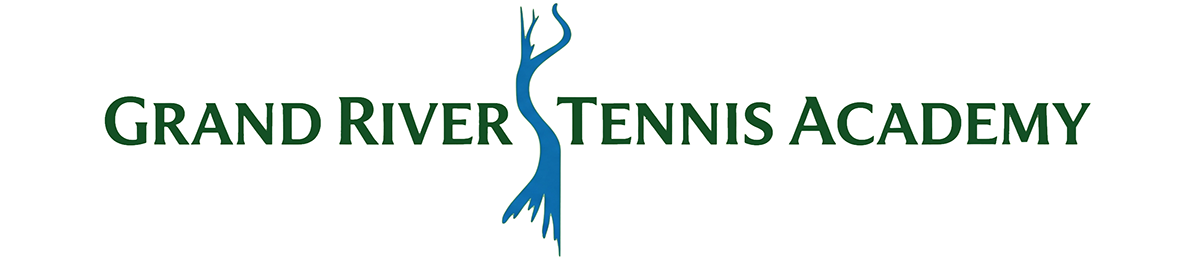
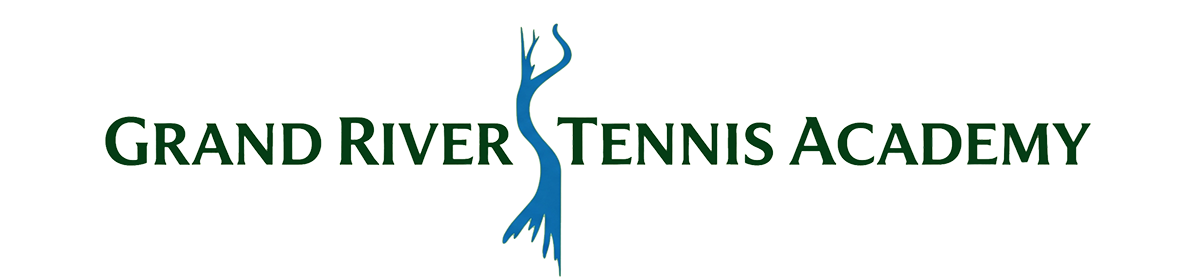
header phone responsiveness

Changed region(s): [[0.0617, 0.3692, 0.925, 0.6154], [0.4317, 0.0308, 0.4933, 0.3692], [0.4008, 0.6462, 0.4625, 0.9231]]

diff --git a/src/App.tsx b/src/App.tsx
@@ -677,69 +677,74 @@ function App() {
         boxSizing: 'border-box', // Include padding in width calculation for this div
       }}>
 
-        <div style={{
-          position: 'absolute',
-          top: '1.5rem',
-          right: '1.5rem',
-          zIndex: 10,
-        }}>
-          {user ? (
-            <button
-              onClick={signOut}
-              style={{
-                padding: '0.5rem 1rem',
-                backgroundColor: '#f0f0f0', // Light gray
-                color: '#4a4a4a', // Darker gray text
-                fontWeight: '600',
-                borderRadius: '0.375rem',
-                boxShadow: '0 1px 2px 0 rgba(0, 0, 0, 0.05)', // Softer shadow
-                transition: 'background-color 0.2s ease-in-out, box-shadow 0.2s ease-in-out',
-                border: '1px solid #d0d0d0', // Subtle border
-                cursor: 'pointer',
-              }}
-              onMouseOver={(e) => {
-                e.currentTarget.style.backgroundColor = '#e0e0e0'; // Slightly darker gray on hover
-                e.currentTarget.style.boxShadow = '0 2px 4px 0 rgba(0, 0, 0, 0.1)'; // Slightly more pronounced shadow on hover
-              }}
-              onMouseOut={(e) => {
-                e.currentTarget.style.backgroundColor = '#f0f0f0';
-                e.currentTarget.style.boxShadow = '0 1px 2px 0 rgba(0, 0, 0, 0.05)';
-              }}
-            >
-              Sign out
-            </button>
-          ) : (
-            <button
-              onClick={() => setShowAuth(true)}
-              style={{
-                padding: '0.5rem 1rem',
-                backgroundColor: '#2563eb',
-                color: '#ffffff',
-                fontWeight: '600',
-                borderRadius: '0.375rem',
-                boxShadow: '0 2px 4px -1px rgba(0, 0, 0, 0.1), 0 1px 2px -1px rgba(0, 0, 0, 0.06)',
-                transition: 'background-color 0.2s ease-in-out',
-                border: 'none',
-                cursor: 'pointer',
-              }}
-              onMouseOver={(e) => (e.currentTarget.style.backgroundColor = '#1d4ed8')}
-              onMouseOut={(e) => (e.currentTarget.style.backgroundColor = '#2563eb')}
-            >
-              Sign In / Sign Up
-            </button>
-          )}
-        </div>
-
-        {/* Header section with logo instead of title */}
+        {/* Header section with logo and sign-in/out button */}
         <div style={{
           marginBottom: '1.5rem',
           display: 'flex',
-          flexDirection: 'column',
+          flexDirection: 'column', // Stack vertically by default
           alignItems: 'center', // Center items horizontally
-          justifyContent: 'center', // Center content if it were a row
+          justifyContent: 'center',
           paddingBottom: '0.5rem',
           borderBottom: '1px solid #e5e7eb',
+          gap: '1rem', // Space between logo and button
         }}>
+          {/* Sign In / Sign Out Button - Moved inside the flex container */}
+          <div style={{
+            width: '100%', // Take full width to allow text-align
+            textAlign: 'right', // Align button to the right
+            paddingRight: '0.5rem', // Small padding from the right edge
+            boxSizing: 'border-box',
+          }}>
+            {user ? (
+              <button
+                onClick={signOut}
+                style={{
+                  padding: '0.5rem 1rem',
+                  backgroundColor: '#f0f0f0', // Light gray
+                  color: '#4a4a4a', // Darker gray text
+                  fontWeight: '600',
+                  borderRadius: '0.375rem',
+                  boxShadow: '0 1px 2px 0 rgba(0, 0, 0, 0.05)', // Softer shadow
+                  transition: 'background-color 0.2s ease-in-out, box-shadow 0.2s ease-in-out',
+                  border: '1px solid #d0d0d0', // Subtle border
+                  cursor: 'pointer',
+                  fontSize: '0.875rem', // Smaller font size for mobile
+                }}
+                onMouseOver={(e) => {
+                  e.currentTarget.style.backgroundColor = '#e0e0e0'; // Slightly darker gray on hover
+                  e.currentTarget.style.boxShadow = '0 2px 4px 0 rgba(0, 0, 0, 0.1)'; // Slightly more pronounced shadow on hover
+                }}
+                onMouseOut={(e) => {
+                  e.currentTarget.style.backgroundColor = '#f0f0f0';
+                  e.currentTarget.style.boxShadow = '0 1px 2px 0 rgba(0, 0, 0, 0.05)';
+                }}
+              >
+                Sign out
+              </button>
+            ) : (
+              <button
+                onClick={() => setShowAuth(true)}
+                style={{
+                  padding: '0.5rem 1rem',
+                  backgroundColor: '#2563eb',
+                  color: '#ffffff',
+                  fontWeight: '600',
+                  borderRadius: '0.375rem',
+                  boxShadow: '0 2px 4px -1px rgba(0, 0, 0, 0.1), 0 1px 2px -1px rgba(0, 0, 0, 0.06)',
+                  transition: 'background-color 0.2s ease-in-out',
+                  border: 'none',
+                  cursor: 'pointer',
+                  fontSize: '0.875rem', // Smaller font size for mobile
+                }}
+                onMouseOver={(e) => (e.currentTarget.style.backgroundColor = '#1d4ed8')}
+                onMouseOut={(e) => (e.currentTarget.style.backgroundColor = '#2563eb')}
+              >
+                Sign In / Sign Up
+              </button>
+            )}
+          </div>
+
+          {/* Logo */}
           <img
             src="grtaheader.png" // Placeholder URL
             alt="Grand River Tennis Lessons Logo"
@@ -747,6 +752,7 @@ function App() {
               width: '100%', // Make it responsive
               maxWidth: '700px', // Limit max width to a reasonable size
               height: 'auto', // Maintain aspect ratio
+              marginTop: '-2rem', // Pull logo up to reduce gap
             }}
             // Fallback for image loading errors (optional, but good practice)
             onError={(e) => {
